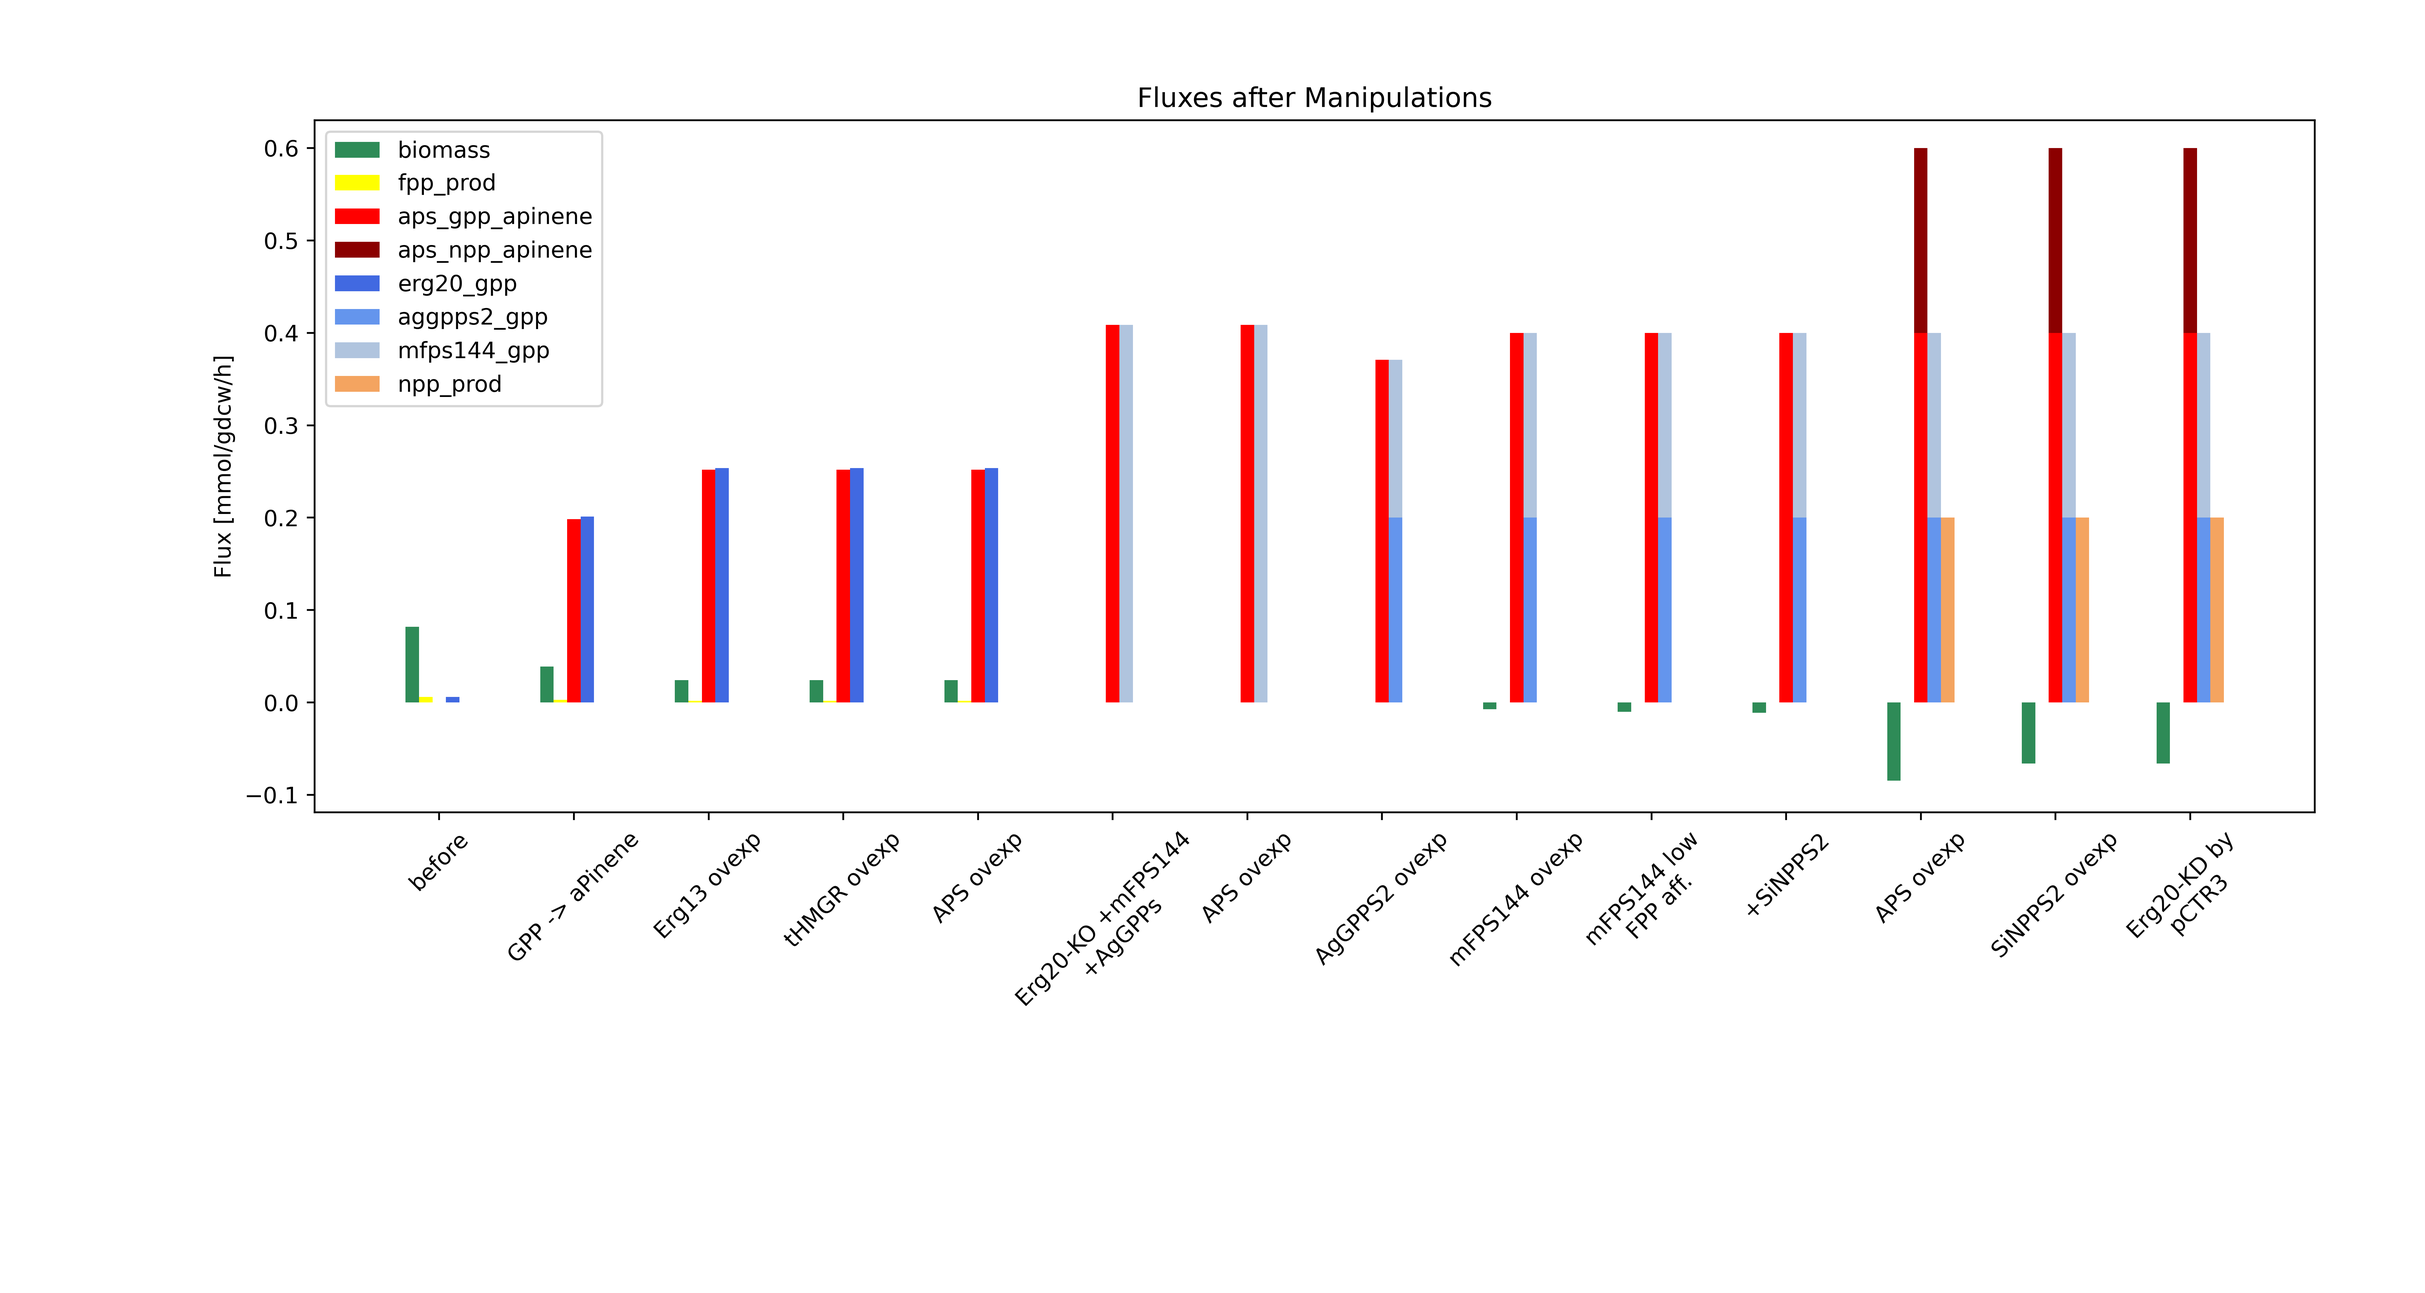
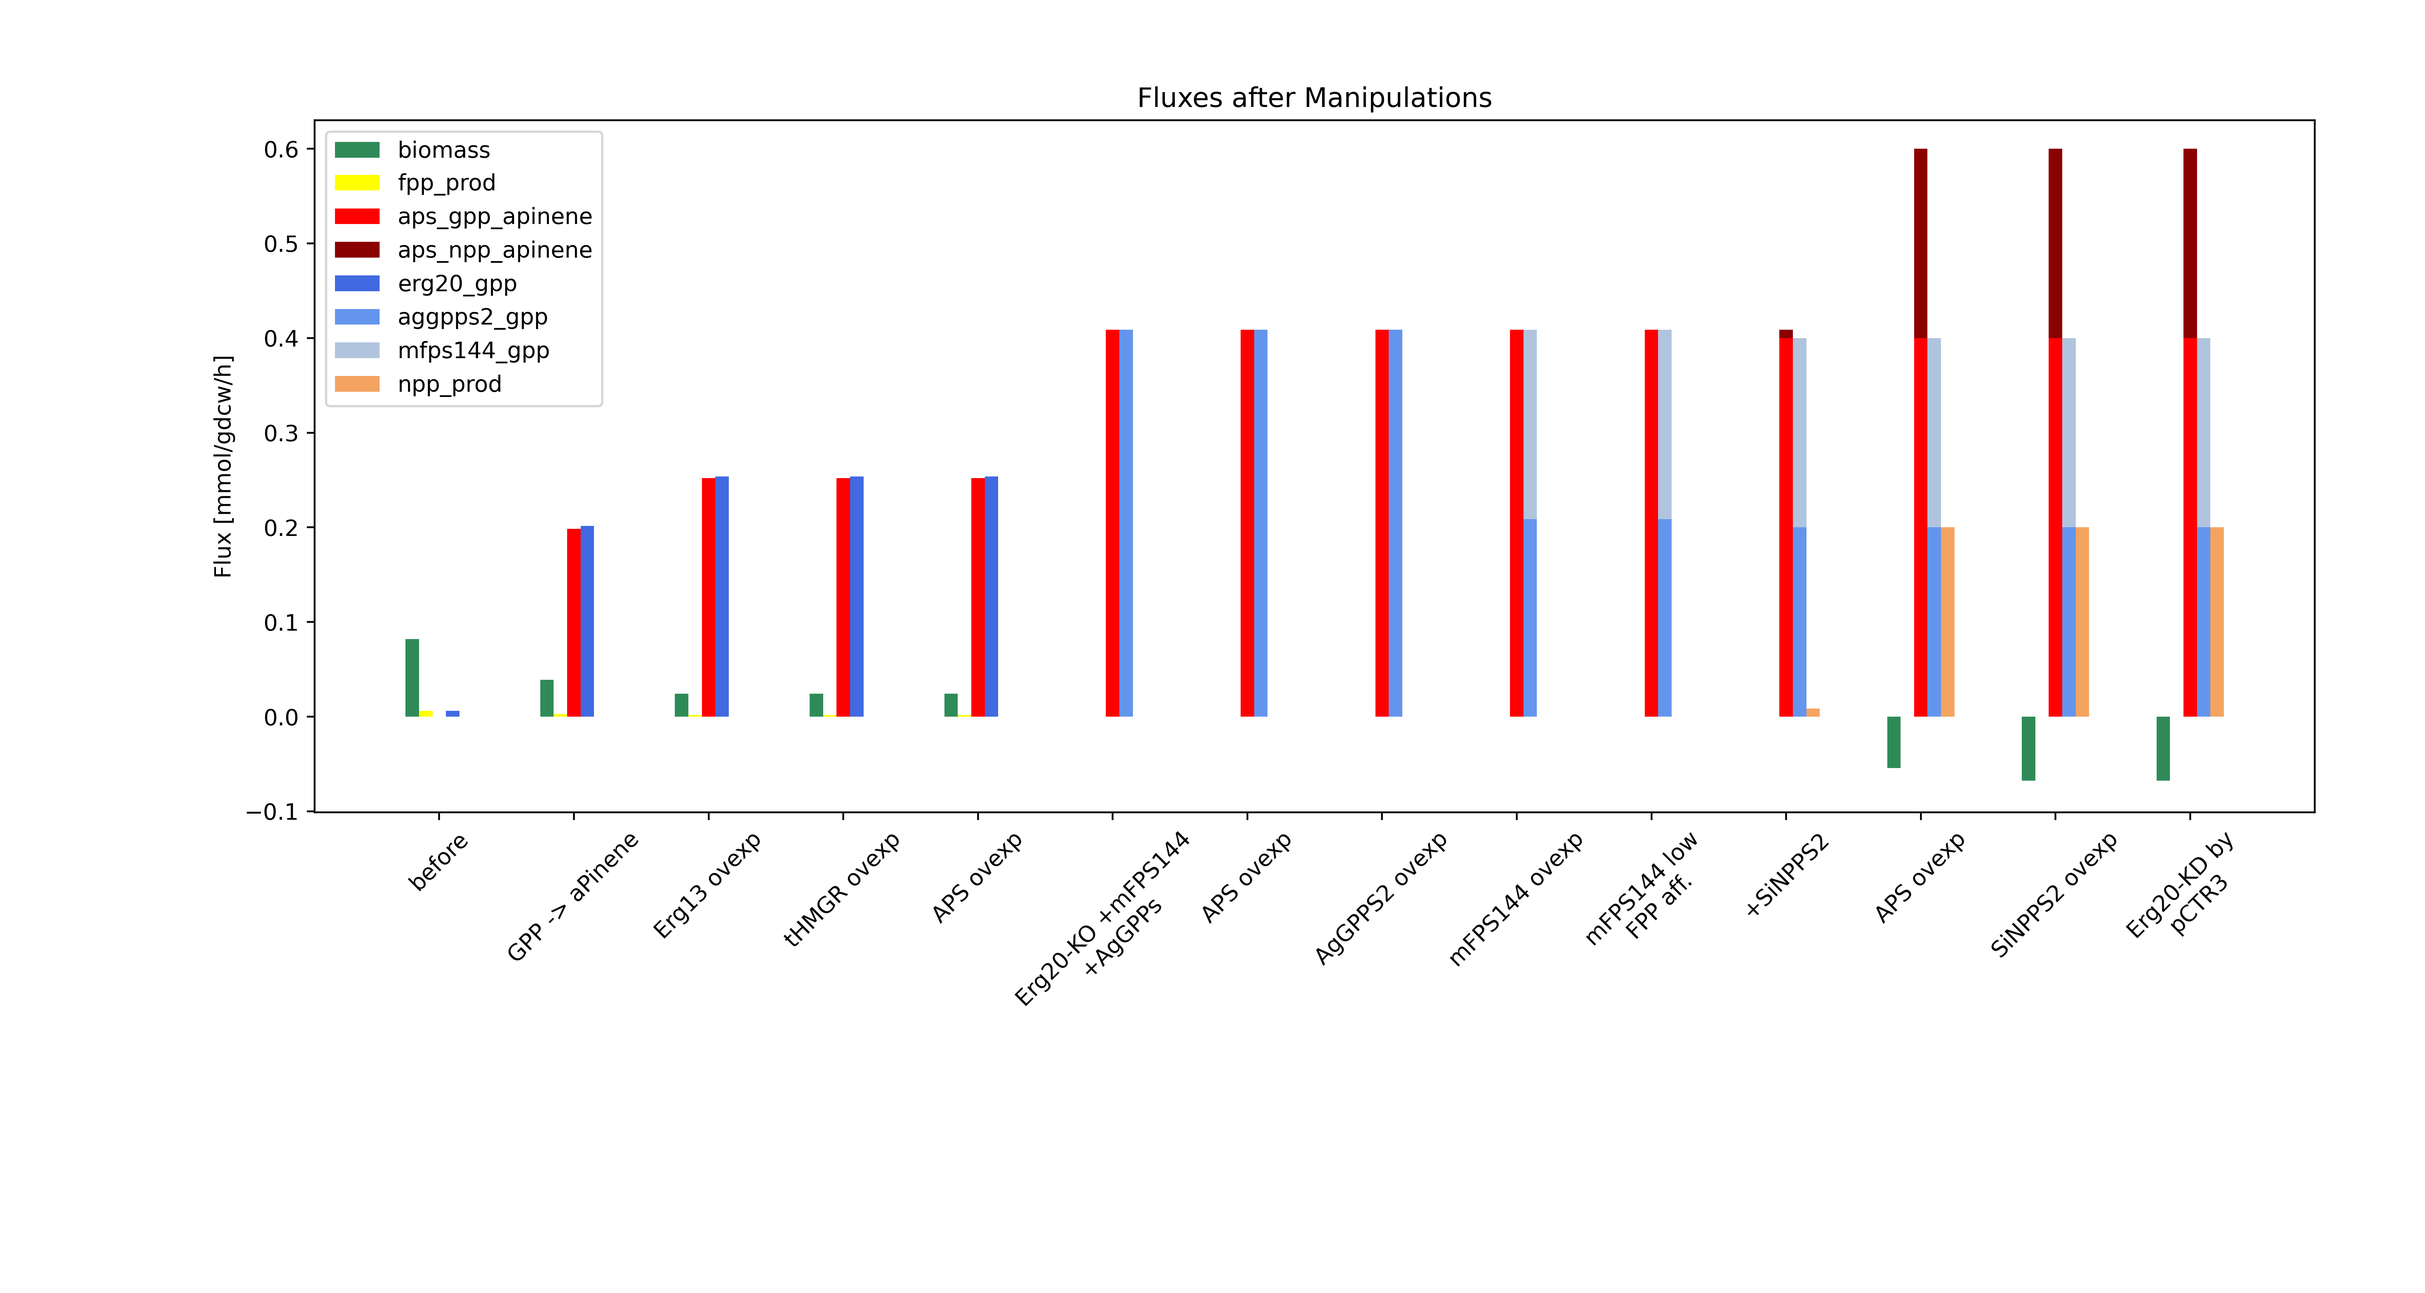
see last commit

diff --git a/sc_peroxisome.py b/sc_peroxisome.py
@@ -1,16 +1,28 @@
 from Data.yeastGEM_io import read_yeast_model, write_yeast_model
-from Model.model_utils import summarize_properties
+from Model.model_utils import plot_fluxes, summarize_properties
 from cobra import Model, Reaction, Metabolite
 import pandas as pd
 from matplotlib import pyplot as plt
 import numpy as np
-# --- Step 1: Create reference model and model with heterologous reactions for alpha-pienen synthesis in peroxisomes ---
 
+#class-specific constants:
+OVEREXPRESSION_LOWER_BOUND = 0.2 # or maybe not class-sepcific at the end? -> then import from constants.py
+KNOCK_DOWN_HIGHER_BOUND = 500
+APINENE_OBJECTIVE_COEFFICIENT = 0.2
+GROWTH_OBJECTIVE_COEFFICIENT = 0.8
+FLUX_LABELS = ["biomass", "fpp_prod", "aps_gpp_apinene", "aggpps2_gpp", "npp_prod", "aps_npp_apinene", "mfps144_gpp"]
+COLORS = ['seagreen', 'yellow', 'red', 'cornflowerblue', 'sandybrown', 'darkred', 'lightsteelblue']
+STACK_INDICES = [(5,6), (2,3)]
+CHANGE_INFOS = ['+Erg10', '++Erg13', '++tHMGR', '+Erg12', '+Erg8', '+Erg19', '+Idi1', '++mFPS144', '++AgGPPS2',
+    '++SiNPPS1', '++APS & OF']
+
+
+# --- Step 1: Create reference model and model with heterologous reactions for alpha-pienen synthesis in peroxisomes ---
 # create reference and engineered model
 model = read_yeast_model()
 reference = read_yeast_model()
 
-# initilize metabolite objects for heterologous reactions in peroxisomes
+# initilize metabolite obchange_info_offsetects for heterologous reactions in peroxisomes
 Acetyl_CoA = reference.metabolites.get_by_id("s_0378")
 Acetoacetyl_CoA = Metabolite(id="s_4270", formula="C25H36N7O18P3S", name="acetoacetyl-CoA[p]", charge=-4, compartment="p") #the original model's last metabolite has the id s_4269
 CoA = reference.metabolites.get_by_id("s_0534")
@@ -28,27 +40,31 @@ DMAPP = Metabolite(id="s_4276", formula="C5H9O7P2", name="dimethylallyl diphosph
 GPP = Metabolite(id="s_4277", formula="C10H17O7P2", name="geranyl diphosphate[p]", charge=-3, compartment="p")
 Alpha_pinene = Metabolite(id="s_4278", formula="C6H16", name="(+)-alpha-pinene[p]", charge=0, compartment="p")
 Phosphate = Metabolite(id="s_4279", formula="HO4P", name="phosphate[p]", charge=-2, compartment="p")
+FPP = Metabolite(id="s_4280", formula="C15H25O7P2", name="farnesyl diphosphate[p]", charge=-3, compartment="p")
+NPP = Metabolite(id="s_4281",formula='C10H17O7P2', name='neryl diphosphate', charge=-3, compartment='p')
 CO2 = reference.metabolites.get_by_id("s_0462")
 Diphosphate = reference.metabolites.get_by_id("s_0638")
 
-# initilize reaction objects for heterologous reactions
+# initilize reaction obchange_info_offsetects for heterologous reactions
 Erg10_reaction = Reaction(id="MVA1", name="2.0 Acetyl-CoA --> 1.0 Acetoacetyl-CoA + 1.0 CoA", upper_bound=1000.0)
-Erg13_reaction = Reaction(id="MVA2", name="1.0 Acetyl-CoA + 1.0 Acetoacetyl-CoA --> 1.0 HMG-CoA + 1.0 CoA", upper_bound=1000.0)
-tHMGR_reaction = Reaction(id="MVA3", name="1.0 HMG-CoA + 2.0 NADPH + 2 h_p --> 1.0 Mevalonate + 2.0 NADP + 1.0 CoA", upper_bound=1000.0)
+Erg13_reaction = Reaction(id="MVA2", name="1.0 Acetyl-CoA + 1.0 Acetoacetyl-CoA --> 1.0 HMG-CoA + 1.0 CoA", upper_bound=1000.0, lower_bound=OVEREXPRESSION_LOWER_BOUND)
+tHMGR_reaction = Reaction(id="MVA3", name="1.0 HMG-CoA + 2.0 NADPH + 2 h_p --> 1.0 Mevalonate + 2.0 NADP + 1.0 CoA", upper_bound=1000.0, lower_bound=OVEREXPRESSION_LOWER_BOUND)
 
 Erg12_reaction = Reaction(id="MVA4", name="1.0 Mevalonate + 1.0 ATP --> 1.0 Mevalonat-P + 1.0 ADP + 1.0 h_p", upper_bound=1000.0)
 Erg8_reaction = Reaction(id="MVA5", name="1.0 Mevalonate-P + 1.0 ATP --> 1.0 Mevalonat-PP + 1.0 ADP", upper_bound=1000.0)
 Erg19_reaction = Reaction(id="MVA6", name="1.0 Mevalonate-PP + 1.0 ATP --> 1.0 IPP + 1.0 ADP + 1.0 PO4 + 1.0 CO2", lower_bound=None, upper_bound=1000.0) #irreversible reactions, so lower_bound = None
 Idi1_reaction = Reaction(id="MVA7", name="1.0 IPP <--> 1.0 DMAPP", upper_bound=1000.0)
 
-AgGPPS2_GPP_reaction = Reaction(id="MVA8", name="1.0 IPP + 1.0 DMAPP --> 1.0 GPP + 1.0 Diphosphate", upper_bound=1000.0)
-AgGPPS2_FPP_reaction = Reaction(id="MVA9", name="", upper_bound=1000.0) #TODO
-mFPS144_reaction = Reaction(id="MVA10", name="1.0 IPP + 1.0 DMAPP --> 1.0 GPP + 1.0 Diphosphate", upper_bound=1000.0)
-APS_npp_reaction = Reaction(id="MVA11", name="1.0 FPP --> 1.0 Alpha-Pinene + 1.0 Diphosphate", upper_bound=1000.0)
-APS_gpp_reaction = Reaction(id="MVA12", name="1.0 GPP --> 1.0 Alpha-Pinene + 1.0 Diphosphate", upper_bound=1000.0)
-#TODO add missing reactions (SiNPPS1)
+AgGPPS2_reaction = Reaction(id="MVA8", name="1.0 IPP + 1.0 DMAPP --> 1.0 GPP + 1.0 Diphosphate", upper_bound=1000.0, lower_bound=OVEREXPRESSION_LOWER_BOUND)
+mFPS144_GPP_reaction = Reaction(id="MVA9", name="1.0 IPP + 1.0 DMAPP --> 1.0 GPP + 1.0 Diphosphate", upper_bound=1000.0, lower_bound=OVEREXPRESSION_LOWER_BOUND)
+mFPS144_FPP_reaction = Reaction(id="MVA10", name="1.0 IPP + 1.0 DMAPP --> 1.0 FPP + 1.0 Diphosphate", upper_bound=1000.0, lower_bound=OVEREXPRESSION_LOWER_BOUND)
+SiNPPS1_reaction = Reaction(id="MVA11", name="1.0 IPP + 1.0 DMAPP --> 1.0 NPP + 1.0 Diphosphate", upper_bound=1000.0, lower_bound=OVEREXPRESSION_LOWER_BOUND)
+APS_npp_reaction = Reaction(id="MVA12", name="1.0 NPP --> 1.0 Alpha-Pinene + 1.0 Diphosphate", upper_bound=1000.0, lower_bound=OVEREXPRESSION_LOWER_BOUND)
+APS_gpp_reaction = Reaction(id="MVA13", name="1.0 GPP --> 1.0 Alpha-Pinene + 1.0 Diphosphate", upper_bound=1000.0, lower_bound=OVEREXPRESSION_LOWER_BOUND)
+APinene_con_reaction = Reaction(id="r_apinene_con", name="1.0 Alpha-Pinene ->", upper_bound=1000.0)
 
-# Add metabolites and reaction stoichiometry to reaction objects
+
+# Add metabolites and reaction stoichiometry to reaction obchange_info_offsetects
 Erg10_reaction.add_metabolites({
     Acetyl_CoA: -2.0,
     Acetoacetyl_CoA: 1.0,
@@ -100,10 +116,24 @@ Idi1_reaction.add_metabolites({
     DMAPP: 1.0
 }, reversibly=True)
 
-mFPS144_reaction.add_metabolites({
+AgGPPS2_reaction.add_metabolites({
     IPP: -1.0,
     DMAPP: -1.0,
     GPP: 1.0,
+    Diphosphate: 1.0
+})
+
+mFPS144_GPP_reaction.add_metabolites({
+    IPP: -1.0,
+    DMAPP: -1.0,
+    GPP: 1.0,
+    Diphosphate: 1.0
+})
+
+mFPS144_FPP_reaction.add_metabolites({
+    GPP: -1.0,
+    IPP: -1.0,
+    FPP: 1.0,
     Diphosphate: 1.0
 })
 
@@ -112,7 +142,23 @@ APS_gpp_reaction.add_metabolites({
     Alpha_pinene: 1.0,
     Diphosphate: 1.0
 })
-#TODO add missing metabolites to reactions
+
+APS_npp_reaction.add_metabolites({
+    NPP: -1.0,
+    Alpha_pinene: 1.0,
+    Diphosphate: 1.0
+})
+
+SiNPPS1_reaction.add_metabolites({
+    IPP: -1.0,
+    DMAPP: -1.0,
+    NPP: 1.0,
+    Diphosphate: 1.0
+})
+
+APinene_con_reaction.add_metabolites({
+    Alpha_pinene: -1.0
+})
 
 # Add reactions to model
 reactionlist = [
@@ -123,37 +169,55 @@ reactionlist = [
     Erg8_reaction,
     Erg19_reaction,
     Idi1_reaction,
-    mFPS144_reaction, #7
-    AgGPPS2_GPP_reaction,
-    AgGPPS2_FPP_reaction,
+    mFPS144_GPP_reaction, #7
+    mFPS144_FPP_reaction,
+    AgGPPS2_reaction,
+    SiNPPS1_reaction,
     APS_gpp_reaction,
-    APS_npp_reaction
+    APS_npp_reaction,
+    APinene_con_reaction
 ]
 
-for reaction in reactionlist:
-    model.add_reaction(reaction)
-
 def simulate_all_changes():
-    #TODO
-    return
+    results = []
+    change_info_offset = 0
+    for i in range(0, len(reactionlist)-3):
+        model.add_reaction(reactionlist[i])
+        if i == 7: # special case: no solving/info reasonable if 'secondary' reaction of enzyme is added (because the manipulation's impact comprises all its reactions at once in reality)
+            change_info_offset += 1
+            continue
+        results.append(solve_and_get_reaction_fluxes(model, change_biological=CHANGE_INFOS[i-change_info_offset]))
+    # add aps reactions plus consumption manually and adapt objective function (!)
+    model.add_reactions([reactionlist[11], reactionlist[12], reactionlist[13]])
+    model.objective = {model.reactions.get_by_id("r_apinene_con"): APINENE_OBJECTIVE_COEFFICIENT, 
+                    model.reactions.get_by_id("r_2111"): GROWTH_OBJECTIVE_COEFFICIENT}
+    results.append(solve_and_get_reaction_fluxes(model, change_biological=CHANGE_INFOS[10]))
+    plot_fluxes(results, FLUX_LABELS, COLORS, STACK_INDICES, 0.1, (10,7), save_as='scp_all.png')
 
 def solve_and_get_reaction_fluxes(model, change_biological="", change_technical=""):
     solution = model.optimize()
     print("\n--- Change made to model: " + change_biological + "/" + change_technical + " ---")
-    l = [solution.fluxes.get('r_2111')] + reactionlist
+    l = [solution.fluxes.get('r_2111'), solution.fluxes.get('MVA10'), solution.fluxes.get('MVA13'), solution.fluxes.get('MVA9'),
+        solution.fluxes.get('MVA11'), solution.fluxes.get('MVA12'), solution.fluxes.get('MVA9')]
     for i in range(0,len(l)):
         if l[i] == None:
             l[i] = 0.0
     ap_prod = l[2] + l[5]
-    gpp_prod = l[3] + l[6] + l[7]
+    gpp_prod = l[3] + l[6]
     print("aPinene production flux: " + str(ap_prod) + " of which")
     print(" - "+str(l[2])+" by aps with gpp"); print(" - "+str(l[5])+" by aps with npp")
-    print("fpp production flux: " + str(l[10]))
+    print("fpp production flux: " + str(l[1]))
     print("biomass flux: " + str(l[0])) #biomass
     print("gpp production flux: "+ str(gpp_prod) + " of which")
-    print(" - "+str(l[9])+" by AgGPPS2"); print(" - "+str(l[8])+" by mFPS144")
+    print(" - "+str(l[3])+" by AgGPPS2"); print(" - "+str(l[6])+" by mFPS144")
     print("npp production flux: " + str(l[4]))
     return l + [change_biological]
+
+
+
+for reaction in reactionlist:
+    model.add_reaction(reaction)
+
 
 # --- Step 2: FBA of both models ---
 referenceState = reference.optimize()

diff --git a/sc_cytosol.py b/sc_cytosol.py
@@ -112,7 +112,7 @@ def build_basic_model():
     aPinene = Metabolite('aPinene', formula='C10H16', name='Alphapinene', compartment='c')
     # biological reaction: 1.0 GPP -> 1.0 aPinene
     react_gpp_alphapinene = Reaction('r_gpp_aps_apinene')
-    react_gpp_alphapinene.name = 'GPP -> aPinene'
+    react_gpp_alphapinene.name = 'GPP -> aPinene + PPi'
     react_gpp_alphapinene.subsystem = 'Cytoplasm'
     react_gpp_alphapinene.lower_bound = 0.  # This is the default
     react_gpp_alphapinene.upper_bound = 1000.  # This is the default
@@ -146,19 +146,20 @@ def build_basic_model():
 def add_erg20_ko_and_alternative(model):
     reactions_list = list()
     react_dmapp_gpp = Reaction('r_dmapp_aggpps2_gpp')
-    react_dmapp_gpp.name = 'DMAPP -> GPP'
+    react_dmapp_gpp.name = 'IPP + DMAPP -> GPP + PPi'
     react_dmapp_gpp.subsystem = 'Cytoplasm'
     react_dmapp_gpp.lower_bound = 0.  # This is the default
     react_dmapp_gpp.upper_bound = 1000.  # This is the default
     react_dmapp_gpp.add_metabolites({
-        model.metabolites.get_by_id("s_1376"): -2.0, # DMAPP (C5H9O7P2)
+        model.metabolites.get_by_id("s_0934"): -1.0, # IPP (C5H9O7P2)
+        model.metabolites.get_by_id("s_1376"): -1.0, # DMAPP (C5H9O7P2)
         model.metabolites.get_by_id("s_0745"): 1.0, # GPP (C10H17O7P2)
         model.metabolites.get_by_id("s_0633"): 1.0 # diphosphate/ppi (HO7P2)
     })
     react_dmapp_gpp.gene_reaction_rule = '(AgGPPS2)'
 
     react_ipp_dmapp_gpp = Reaction('r_ipp_dmapp_mfps144_gpp')
-    react_ipp_dmapp_gpp.name = 'IPP + DMAPP -> GPP'
+    react_ipp_dmapp_gpp.name = 'IPP + DMAPP -> GPP + PPi'
     react_ipp_dmapp_gpp.subsystem = 'Cytoplasm'
     react_ipp_dmapp_gpp.lower_bound = 0.  # This is the default
     react_ipp_dmapp_gpp.upper_bound = 1000.  # This is the default
@@ -171,7 +172,7 @@ def add_erg20_ko_and_alternative(model):
     react_ipp_dmapp_gpp.gene_reaction_rule = '(mFPS144)'
 
     react_ipp_gpp_fpp = Reaction('r_ipp_gpp_mfps144_fpp')
-    react_ipp_gpp_fpp.name = 'IPP + GPP -> FPP'
+    react_ipp_gpp_fpp.name = 'IPP + GPP -> FPP + PPi'
     react_ipp_gpp_fpp.subsystem = 'Cytoplasm'
     react_ipp_gpp_fpp.lower_bound = 0.  # This is the default
     react_ipp_gpp_fpp.upper_bound = 1000.  # This is the default
@@ -195,7 +196,7 @@ def add_npp_pathway(model):
     reactions_list = list()
     npp = Metabolite('NPP', formula='C10H17O7P2', name='Neryl pyrophosphate', charge=-3, compartment='c')
     react_dmapp_npp = Reaction('r_dmapp_sinpps2_npp')
-    react_dmapp_npp.name = 'DMAPP -> NPP'
+    react_dmapp_npp.name = 'IPP + DMAPP -> NPP + PPi'
     react_dmapp_npp.subsystem = 'Cytoplasm'
     react_dmapp_npp.lower_bound = 0.  # This is the default
     react_dmapp_npp.upper_bound = 1000.  # This is the default
@@ -208,7 +209,7 @@ def add_npp_pathway(model):
     react_dmapp_npp.gene_reaction_rule = '(SiNPPS2)'
 
     react_npp_alphapinene = Reaction('r_npp_aps_apinene')
-    react_npp_alphapinene.name = 'GPP -> aPinene'
+    react_npp_alphapinene.name = 'NPP -> aPinene + PPi'
     react_npp_alphapinene.subsystem = 'Cytoplasm'
     react_npp_alphapinene.lower_bound = 0.  # This is the default
     react_npp_alphapinene.upper_bound = 1000.  # This is the default

diff --git a/Model/model_utils.py b/Model/model_utils.py
@@ -25,27 +25,30 @@ def plot_fluxes(res, labels, colors, stack_indices, bar_width=0.1, size=(10,7), 
     '''
     subtitles = [i[len(res[0])-1] for i in res]
     ys = []
+    # flatten fluxes list to calculate max
     for i in range(0, len(res[0])-1):
         ys += [j[i] for j in res]
-    for i in range(0, len(res)):
-        ys[len(res)*2 + i] += ys[len(res)*5 + i]
-        ys[len(res)*3 + i] += ys[len(res)*6 + i] + ys[len(res)*7 + i]
-    max_y = max(ys)
+    # add sums of fluxes in stacked bars
+    for j in range(0, len(stack_indices[0])):
+        for i in range(0, len(res)):
+            ys[len(res)*stack_indices[1][j] + i] += ys[len(res)*stack_indices[0][j] + i]
     for i in range(0,len(subtitles)):
         if len(subtitles[i]) > 14:
             a = str.split(subtitles[i])
             subtitles[i] = ' '.join(a[:math.ceil(len(a)/2)]) + "\n" + ' '.join(a[math.ceil(len(a)/2):])
+    max_y = max(ys)
     x = np.arange(len(subtitles))  # the label locations
     width = bar_width # the width of the bars
     fig, ax = plt.subplots()
     offset = -2
+    bars = []
     for i in range(0, len(res[0])-(1+len(stack_indices[0]))):
-        ax.bar(x + (offset + i)*width, [j[i] for j in res], width, label=labels[i], color=colors[i])
+        bars.append(ax.bar(x + (offset + i)*width, [j[i] for j in res], width, label=labels[i], color=colors[i]))
         if i in stack_indices[1]:
             index_prev = i
             for k in range(stack_indices[1].index(i), stack_indices[1].index(i)+stack_indices[1].count(i)):
-                ax.bar(x + (offset + i)*width, [j[stack_indices[0][k]] for j in res], width, bottom=[j[index_prev] for j in res],
-                    label=labels[stack_indices[0][k]], color=colors[stack_indices[0][k]])
+                bars.append(ax.bar(x + (offset + i)*width, [j[stack_indices[0][k]] for j in res], width, bottom=[j[index_prev] for j in res],
+                    label=labels[stack_indices[0][k]], color=colors[stack_indices[0][k]]))
                 index_prev = stack_indices[0][k]
         
      # Add some text for labels, title and custom x-axis tick labels, etc.
@@ -55,7 +58,7 @@ def plot_fluxes(res, labels, colors, stack_indices, bar_width=0.1, size=(10,7), 
         ax.set_xticks(x, subtitles, rotation=45)
     else:
         ax.set_xticks(x, subtitles)
-    ax.set_ylim(top=max_y + 0.05*max_y)
+    ax.set_ylim(top=1.05*max_y)
     ax.legend()
     fig.tight_layout()
     fig.set_size_inches(size[0], size[1])

diff --git a/constants.py b/constants.py
@@ -1,0 +1,6 @@
+# global constants
+
+OVEREXPRESSION_LOWER_BOUND = 0.2
+KNOCK_DOWN_HIGHER_BOUND = 500
+
+
